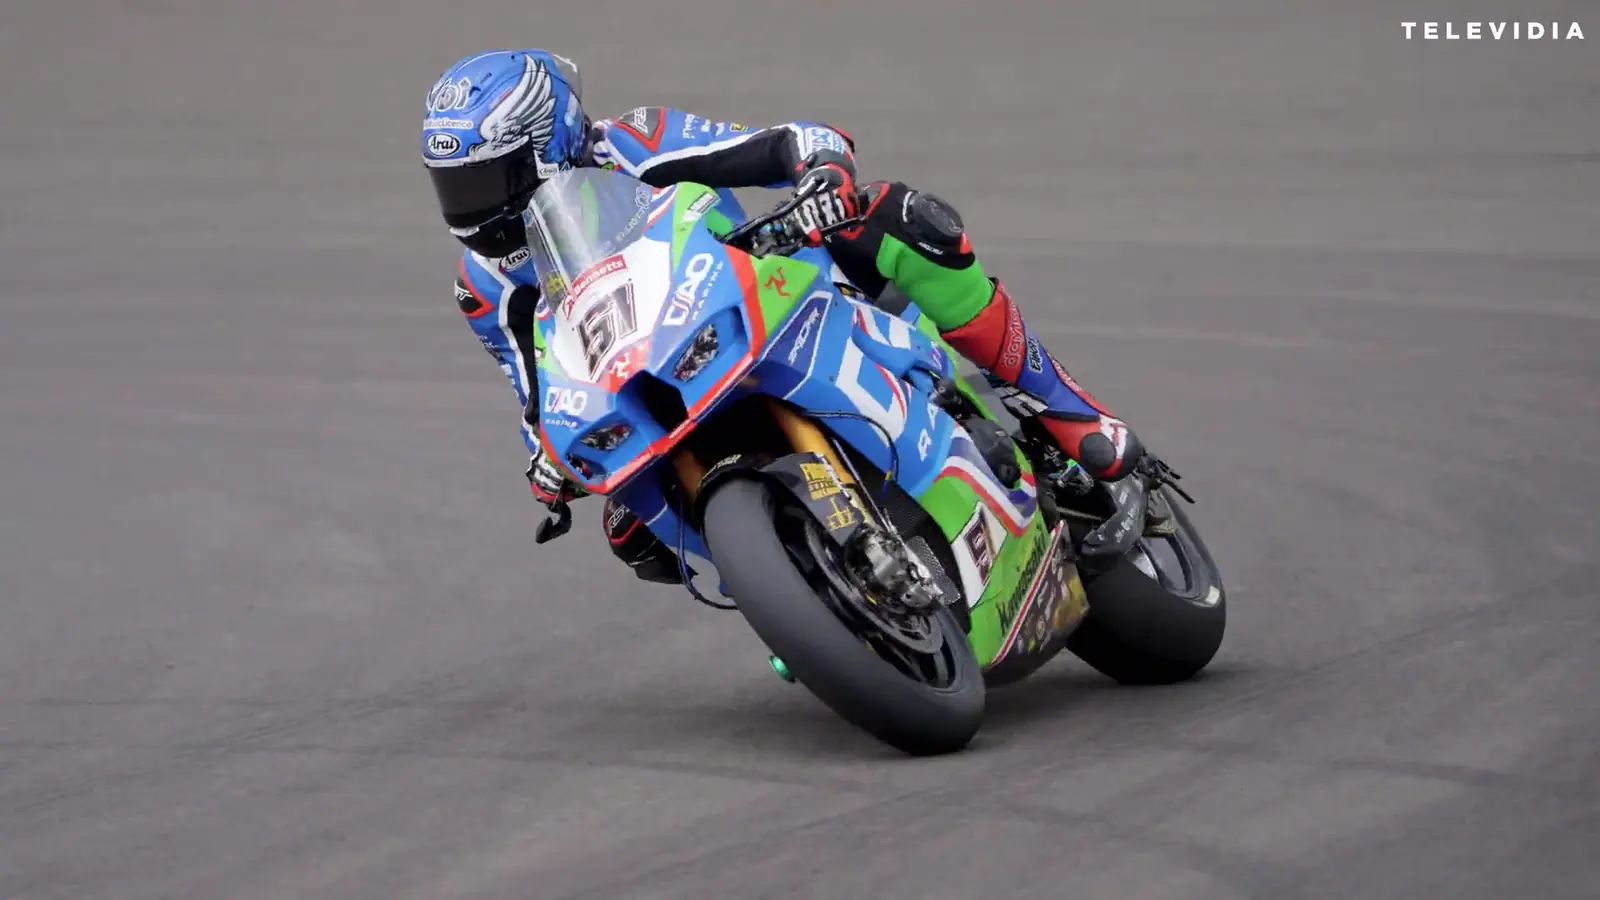
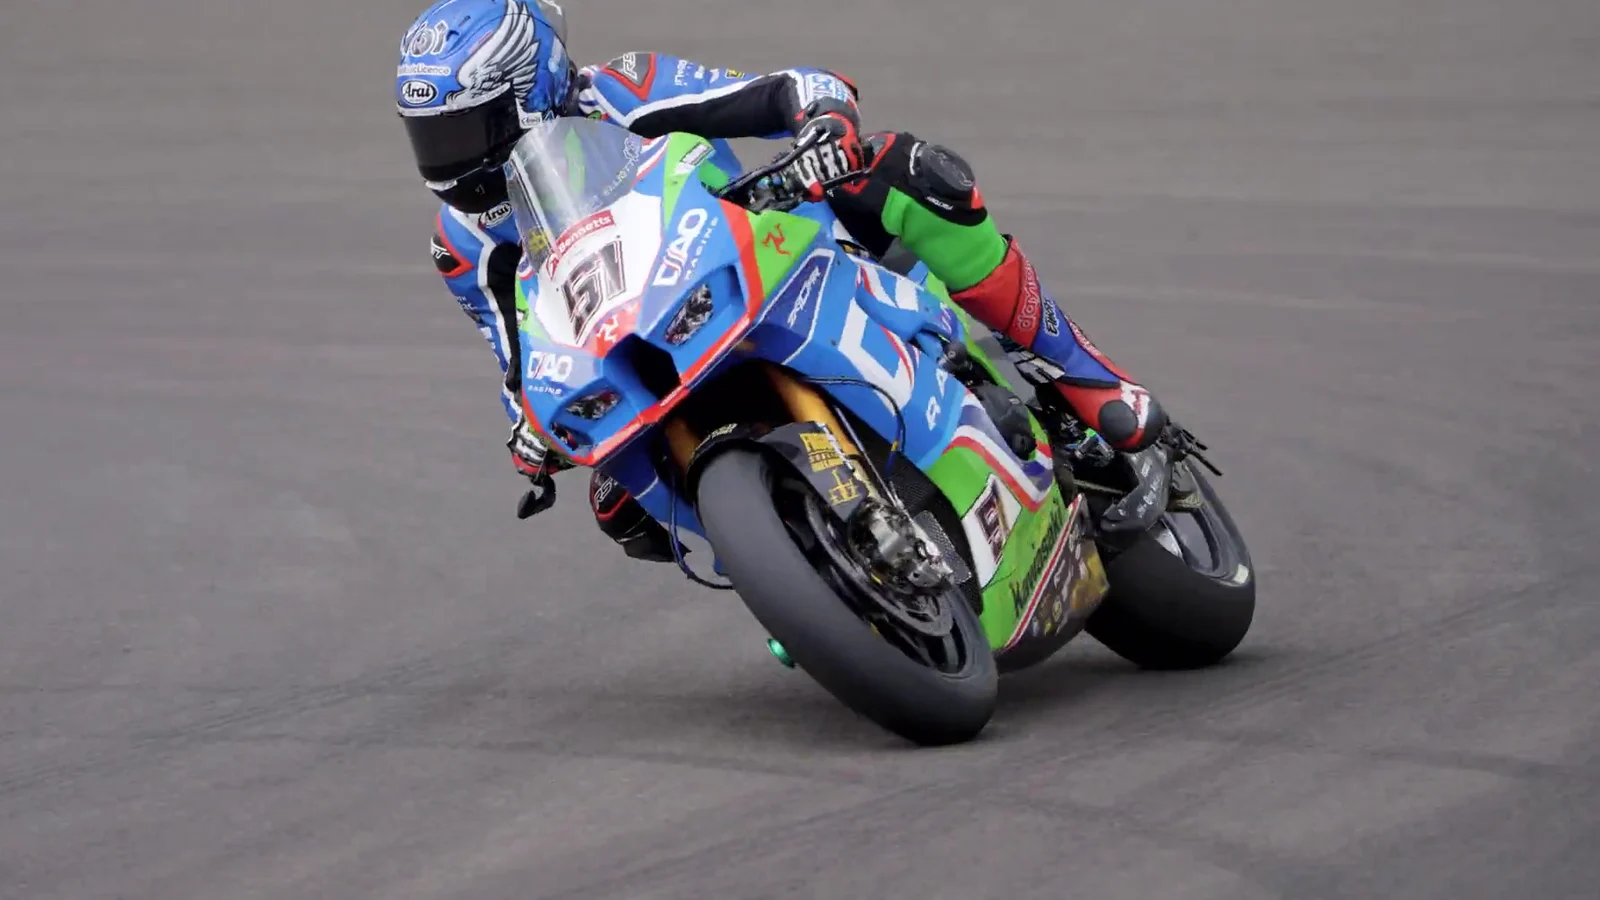
Home: re-cropped hero frame without watermark, darker mobile hero gradient, seamless CSS ticker marquee (wraps under reduced motion)

Changed region(s): [[0.25, 0.0, 0.8125, 0.8711], [0.875, 0.0, 1.0, 0.0622]]

diff --git a/index.html b/index.html
@@ -5,11 +5,11 @@
 <title>TELEVIDIA | Camera &amp; Drone Operator, St Albans</title><meta name="description" content="Camera &amp; drone operator specialising in automotive and movement led cinematography. Based in St Albans, Hertfordshire. Serving nationwide.">
 <link rel="preload" href="fonts/archivo-var-latin.woff2" as="font" type="font/woff2" crossorigin><link rel="icon" href="favicon.svg" type="image/svg+xml"><link rel="icon" href="favicon.ico" sizes="32x32"><link rel="apple-touch-icon" href="apple-touch-icon.png"><meta name="theme-color" content="#08080a"><link rel="stylesheet" href="style.css"></head><body>
 <header><a class="logo" href="index.html">TELEVIDIA</a><button class="menu-btn" aria-expanded="false" aria-controls="nav">Menu</button><nav id="nav"><a href="index.html" aria-current=page>Home</a><a href="about.html">About</a><a href="filmfolio.html">Filmfolio</a><a href="dronefolio.html">Drone Folio</a><a href="photofolio.html">Photo Folio</a><a href="fashion.html">Fashion</a><a href="corporate.html">Corporate</a><a href="medical.html">Medical Folio</a><a href="pricing.html">Pricing</a><a href="contact.html">Contact</a></nav></header>
-<main><section class="hero"><img class="hero-img" src="img/h/dao-hero-1600.webp" srcset="img/h/dao-hero-960.webp 960w, img/h/dao-hero-1600.webp 1600w, img/h/dao-hero-1920.webp 1920w" sizes="100vw" alt="DAO Racing rider leaning into a corner, from the DAO Racing film" fetchpriority="high" data-parallax><h1>Camera &amp; drone operator specialising in automotive and movement led cinematography.</h1>
+<main><section class="hero"><img class="hero-img" src="img/h/dao-hero-1600.webp" srcset="img/h/dao-hero-960.webp 960w, img/h/dao-hero-1600.webp 1600w, img/h/dao-hero-1796.webp 1796w" sizes="100vw" alt="DAO Racing rider leaning into a corner, from the DAO Racing film" fetchpriority="high" data-parallax><h1>Camera &amp; drone operator specialising in automotive and movement led cinematography.</h1>
 <p>Cinematic production for sport, brands and documentaries.</p><p>Trusted in high speed, high pressure environments.</p>
 <p><strong>Based in St Albans, Hertfordshire · Serving nationwide</strong></p>
 <p class="ctas"><a class="btn" href="filmfolio.html">See the Filmfolio</a><a class="btn alt" href="pricing.html">View pricing</a></p></section>
-<p class="ticker"><span>MOTORSPORT</span><span>DOCUMENTARIES</span><span>INTERVIEWS</span><span>CONTENT</span><span>PODCASTS</span><span>EVENTS</span><span>FITNESS</span><span>DRONES</span><span>MEDICAL</span><span>MUSIC VIDEOS</span><span>SURGICAL</span></p><h2>Featured films</h2><div class="grid three swipe"><article class="card"><h3>DUCATI</h3><figure class="vid"><button type="button" class="play" data-hls="https://video.squarespace-cdn.com/content/v1/65ca7602ffe0b45e8ac0eb0a/61e1c468-16a9-4a8c-bca1-d8fa0ad6f551/playlist.m3u8" aria-label="Play film: DUCATI"><img src="img/v/61e1c468.webp" alt="" loading="lazy"><span class="pbtn" aria-hidden="true"></span></button></figure><p>Riding Ducatis, flying drones, and filming out the back of a truck at golden hour. Capturing every curve, speed, and sunset glow. Filmed at Dunstable Downs, Bedfordshire.</p><a class="btn alt" href="filmfolio.html#ducati">More in the Filmfolio</a></article><article class="card"><h3>DAO RACING</h3><figure class="vid"><button type="button" class="play" data-hls="https://video.squarespace-cdn.com/content/v1/65ca7602ffe0b45e8ac0eb0a/d75235c8-9ab8-4c36-8a42-52fb0134476e/playlist.m3u8" aria-label="Play film: DAO RACING"><img src="img/v/d75235c8.webp" alt="" loading="lazy"><span class="pbtn" aria-hidden="true"></span></button></figure><p>Fast paced social media content for British Superbikes team, DAO Racing. We’re contracted to follow them around the UK and Spain, documenting their journey through the highs and lows.</p><a class="btn alt" href="filmfolio.html#dao-racing">More in the Filmfolio</a></article><article class="card"><h3>BLACK HEART</h3><figure class="vid"><button type="button" class="play" data-hls="https://video.squarespace-cdn.com/content/v1/65ca7602ffe0b45e8ac0eb0a/2c492add-1ec2-42b2-8e9a-5308eb86bb9a/playlist.m3u8" aria-label="Play film: BLACK HEART"><img src="img/v/2c492add.webp" alt="" loading="lazy"><span class="pbtn" aria-hidden="true"></span></button></figure><p>My latest documentary. Telling the story of an up and coming world champion Muay Thai fighter, Ciarain Shanahan. Showing the highs and lows of his journey to fame.</p><a class="btn alt" href="filmfolio.html#black-heart">More in the Filmfolio</a></article></div><h2>Clients</h2><ul class="logos strip"><li><img src="img/honda-77a0.webp" alt="Honda" loading="lazy"></li><li><img src="img/don-broco-0eba.webp" alt="Don Broco" loading="lazy"></li><li><img src="img/ducati-red-logo-01ae.webp" alt="Ducati" loading="lazy"></li><li><img src="img/dao-8740.webp" alt="DAO" loading="lazy"></li><li><img src="img/lego-logo-svg-f697.webp" alt="LEGO" loading="lazy"></li><li><img src="img/miller-carter-logo-9831.webp" alt="Miller &amp; Carter" loading="lazy"></li><li><img src="img/nike-wht-ddf3.webp" alt="Nike" loading="lazy"></li><li><img src="img/stclogo-cd1c.webp" alt="Save the Children" loading="lazy"></li></ul><p><a class="btn alt" href="about.html">About TELEVIDIA</a></p><h2>Want to bring your story to life?</h2><p class="ctas"><a class="btn" href="contact.html">Get in touch</a></p></main>
+<p class="ticker"><span class="tk"><span>MOTORSPORT</span><span>DOCUMENTARIES</span><span>INTERVIEWS</span><span>CONTENT</span><span>PODCASTS</span><span>EVENTS</span><span>FITNESS</span><span>DRONES</span><span>MEDICAL</span><span>MUSIC VIDEOS</span><span>SURGICAL</span></span><span class="tk" aria-hidden="true"><span>MOTORSPORT</span><span>DOCUMENTARIES</span><span>INTERVIEWS</span><span>CONTENT</span><span>PODCASTS</span><span>EVENTS</span><span>FITNESS</span><span>DRONES</span><span>MEDICAL</span><span>MUSIC VIDEOS</span><span>SURGICAL</span></span></p><h2>Featured films</h2><div class="grid three swipe"><article class="card"><h3>DUCATI</h3><figure class="vid"><button type="button" class="play" data-hls="https://video.squarespace-cdn.com/content/v1/65ca7602ffe0b45e8ac0eb0a/61e1c468-16a9-4a8c-bca1-d8fa0ad6f551/playlist.m3u8" aria-label="Play film: DUCATI"><img src="img/v/61e1c468.webp" alt="" loading="lazy"><span class="pbtn" aria-hidden="true"></span></button></figure><p>Riding Ducatis, flying drones, and filming out the back of a truck at golden hour. Capturing every curve, speed, and sunset glow. Filmed at Dunstable Downs, Bedfordshire.</p><a class="btn alt" href="filmfolio.html#ducati">More in the Filmfolio</a></article><article class="card"><h3>DAO RACING</h3><figure class="vid"><button type="button" class="play" data-hls="https://video.squarespace-cdn.com/content/v1/65ca7602ffe0b45e8ac0eb0a/d75235c8-9ab8-4c36-8a42-52fb0134476e/playlist.m3u8" aria-label="Play film: DAO RACING"><img src="img/v/d75235c8.webp" alt="" loading="lazy"><span class="pbtn" aria-hidden="true"></span></button></figure><p>Fast paced social media content for British Superbikes team, DAO Racing. We’re contracted to follow them around the UK and Spain, documenting their journey through the highs and lows.</p><a class="btn alt" href="filmfolio.html#dao-racing">More in the Filmfolio</a></article><article class="card"><h3>BLACK HEART</h3><figure class="vid"><button type="button" class="play" data-hls="https://video.squarespace-cdn.com/content/v1/65ca7602ffe0b45e8ac0eb0a/2c492add-1ec2-42b2-8e9a-5308eb86bb9a/playlist.m3u8" aria-label="Play film: BLACK HEART"><img src="img/v/2c492add.webp" alt="" loading="lazy"><span class="pbtn" aria-hidden="true"></span></button></figure><p>My latest documentary. Telling the story of an up and coming world champion Muay Thai fighter, Ciarain Shanahan. Showing the highs and lows of his journey to fame.</p><a class="btn alt" href="filmfolio.html#black-heart">More in the Filmfolio</a></article></div><h2>Clients</h2><ul class="logos strip"><li><img src="img/honda-77a0.webp" alt="Honda" loading="lazy"></li><li><img src="img/don-broco-0eba.webp" alt="Don Broco" loading="lazy"></li><li><img src="img/ducati-red-logo-01ae.webp" alt="Ducati" loading="lazy"></li><li><img src="img/dao-8740.webp" alt="DAO" loading="lazy"></li><li><img src="img/lego-logo-svg-f697.webp" alt="LEGO" loading="lazy"></li><li><img src="img/miller-carter-logo-9831.webp" alt="Miller &amp; Carter" loading="lazy"></li><li><img src="img/nike-wht-ddf3.webp" alt="Nike" loading="lazy"></li><li><img src="img/stclogo-cd1c.webp" alt="Save the Children" loading="lazy"></li></ul><p><a class="btn alt" href="about.html">About TELEVIDIA</a></p><h2>Want to bring your story to life?</h2><p class="ctas"><a class="btn" href="contact.html">Get in touch</a></p></main>
 <footer><a class="logo flogo" href="index.html">TELEVIDIA</a><nav class="fnav" aria-label="Footer"><a href="index.html">Home</a><a href="about.html">About</a><a href="filmfolio.html">Filmfolio</a><a href="dronefolio.html">Drone Folio</a><a href="photofolio.html">Photo Folio</a><a href="fashion.html">Fashion</a><a href="corporate.html">Corporate</a><a href="medical.html">Medical Folio</a><a href="pricing.html">Pricing</a><a href="contact.html">Contact</a></nav><p><strong>Location</strong><br>St. Albans</p><p><strong>Contact</strong><br><a href="mailto:alastair.iad@gmail.com">alastair.iad@gmail.com</a></p>
 <p class="social"><a href="https://www.instagram.com/televidia_uk/">Instagram</a><a href="https://www.linkedin.com/in/alastair-dell-41767b195/">LinkedIn</a></p>
 <p>Based in St Albans, Hertfordshire · Serving nationwide</p></footer>

diff --git a/style.css b/style.css
@@ -91,3 +91,14 @@ footer .flogo{font-size:1.3rem;font-weight:800;letter-spacing:.12em}
 .fnav{display:flex;flex-wrap:wrap;justify-content:center;gap:.25rem;margin:.6rem 0 1rem}
 @media(max-width:699px){.grid.three.swipe{display:flex;overflow-x:auto;scroll-snap-type:x mandatory;gap:1rem;padding-bottom:.6rem;margin-inline:-1rem;padding-inline:1rem;scroll-padding-inline:1rem}
 .grid.three.swipe>*{flex:0 0 82%;scroll-snap-align:start}}
+
+@media(max-width:699px){.hero::before{background:linear-gradient(180deg,rgba(8,8,10,.45) 0%,rgba(8,8,10,.55) 18%,rgba(8,8,10,.86) 40%,rgba(8,8,10,.94) 65%,var(--bg) 100%)}.hero .hero-img{object-position:50% 0;height:62%}.hero h1{text-shadow:0 2px 18px rgba(0,0,0,.85)}}
+.ticker{display:flex;overflow:hidden;white-space:nowrap;-webkit-mask:linear-gradient(90deg,transparent,#000 6%,#000 94%,transparent)}
+.ticker .tk{display:flex;flex:none;animation:tk 60s linear infinite}
+.ticker .tk span::after{content:"\00B7";margin:0 .7em;color:var(--acc)}
+.ticker .tk span+span::before{content:none}
+@keyframes tk{to{transform:translateX(-100%)}}
+@media(prefers-reduced-motion:reduce){.ticker{flex-wrap:wrap;white-space:normal;-webkit-mask:none}.ticker .tk{flex-wrap:wrap;animation:none}.ticker .tk[aria-hidden]{display:none}.ticker .tk span:last-child::after{content:none}}
+.ticker .tk+.tk::before{content:none}
+@media(prefers-reduced-motion:reduce){.ticker .tk{flex:1 1 100%;justify-content:center;row-gap:.3em}}
+@media(max-width:699px){.hero::before{background:linear-gradient(180deg,rgba(8,8,10,.4) 0%,rgba(8,8,10,.78) 20%,rgba(8,8,10,.9) 38%,rgba(8,8,10,.95) 65%,var(--bg) 100%)}}
